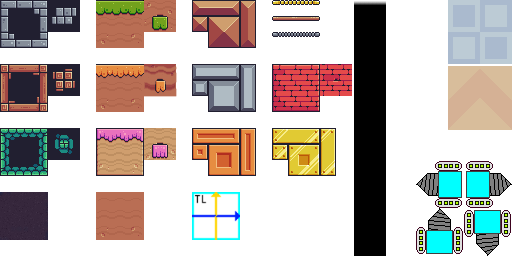
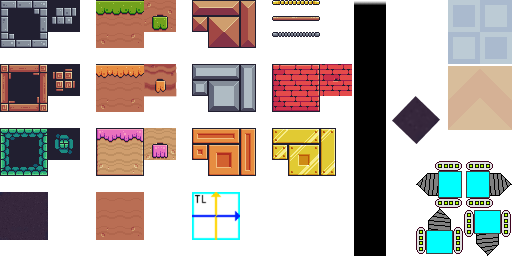
adjusted demos to new scenegraph

Changed region(s): [[0.75, 0.375, 0.875, 0.5625]]

diff --git a/Demos/SnakeGame/Logic/GameModel.cs b/Demos/SnakeGame/Logic/GameModel.cs
@@ -9,6 +9,7 @@ public class GameModel
     private const float BaseVelocityTilesPerSecond = 4f;
     private const float VelocityLevelIncreaseSecond = 0.3f;
 
+    private LinkedList<SnakeTile> snakeTiles = new();
 
     public GameModel()
     {
@@ -42,7 +43,7 @@ public class GameModel
         SnakeDirection = Direction.West;
     }
 
-    public IEnumerable<SnakeTile> SnakeTiles => Tiles;
+    public IEnumerable<SnakeTile> SnakeTiles => snakeTiles;
 
     public float Velocity => BaseVelocityTilesPerSecond + (Level * VelocityLevelIncreaseSecond) + (FoodEaten * VelocityLevelIncreaseSecond / 2f);
     public float MoveDurationSeconds => 1f / Velocity;
@@ -74,18 +75,18 @@ public class GameModel
 
     private void InitSnake()
     {
-        Tiles.Clear();
+        snakeTiles.Clear();
         var x = GridTilesX / 2;
         var y = GridTilesY / 2;
         var bodyTiles = Level + 1;
         x -= bodyTiles / 2;
-        Tiles.AddLast(new SnakeTile(x - 1, y, Direction.West, FrameType.Head));
+        snakeTiles.AddLast(new SnakeTile(x - 1, y, Direction.West, FrameType.Head));
         for (var i = 0; i < bodyTiles; i++)
         {
-            Tiles.AddLast(new SnakeTile(x + i, y, Direction.West, FrameType.Body));
+            snakeTiles.AddLast(new SnakeTile(x + i, y, Direction.West, FrameType.Body));
 
         }
-        Tiles.AddLast(new SnakeTile(x + bodyTiles, y, Direction.West, FrameType.Tail));
+        snakeTiles.AddLast(new SnakeTile(x + bodyTiles, y, Direction.West, FrameType.Tail));
     }
     private void InitObjects()
     {
@@ -116,7 +117,6 @@ public class GameModel
 
     #region Snake movement
     public Direction SnakeDirection { get; private set; } = Direction.West;
-    public LinkedList<SnakeTile> Tiles { get; private set; } = new LinkedList<SnakeTile>();
 
     /// <summary>
     /// Moves the snake one tile in the given direction.
@@ -125,7 +125,7 @@ public class GameModel
     /// <returns>true if the snake has moved, false if it was blocked</returns>
     public bool MoveSnake(Direction direction)
     {
-        var head = Tiles.First!;
+        var head = snakeTiles.First!;
         SnakeDirection = direction;
 
         //  create the head node on new position and check for food collision
@@ -161,7 +161,7 @@ public class GameModel
                 if (node.Previous == head) break;
 
                 SnakeTile newTile = new(previousCopy.X, previousCopy.Y, previousCopy.Direction, FrameType.Body);
-                Tiles.AddAfter(node, newTile);
+                snakeTiles.AddAfter(node, newTile);
             }
 
             node = node.Next;
@@ -169,7 +169,7 @@ public class GameModel
         while (node != null);
 
         //  make sure tail has the direction of previous tile
-        Tiles.Last!.Value.Direction = Tiles.Last.Previous!.Value.Direction;
+        snakeTiles.Last!.Value.Direction = snakeTiles.Last.Previous!.Value.Direction;
 
 
         //  check for collisions       
@@ -184,11 +184,11 @@ public class GameModel
     /// <returns>true if snake has collided</returns>
     private bool HasHeadCollided()
     {
-        var headTile = Tiles.First!.Value;
+        var headTile = snakeTiles.First!.Value;
         var isCollission = Grid[headTile.X, headTile.Y] == TileType.Block || Grid[headTile.X, headTile.Y] == TileType.Bomb;
         if (!isCollission)
         {
-            foreach (var tile in Tiles.Skip(1))
+            foreach (var tile in snakeTiles.Skip(1))
             {
                 if (headTile.X == tile.X && headTile.Y == tile.Y)
                 {

diff --git a/Demos/Deeper/Entities/Vehicle.cs b/Demos/Deeper/Entities/Vehicle.cs
@@ -1,15 +1,16 @@
-
+namespace Deeper.Entities;
+
 using RaylibEngine.Components;
 using RaylibEngine.Core;
 using System.Numerics;
 
-namespace Deeper.Entities;
 internal class Vehicle : Sprite, IUpdateable
 {
     const float Speed = Map.TileSize;
 
     private readonly Dictionary<Direction, Rectangle> frames = new();
     private readonly Map map;
+    private readonly Sprite diggingBackground;
 
     private Direction direction;
     private readonly TilePosition currentTilePosition = new(0, 0);
@@ -27,28 +28,36 @@ internal class Vehicle : Sprite, IUpdateable
         frames[Direction.North] = new(416, 208, Map.TileSize, Map.TileSize);
         frames[Direction.South] = new(464, 208, Map.TileSize, Map.TileSize);
         Frame = frames[Direction.East];
+        Name = "Vehicle";
+
+        diggingBackground = new Sprite(texture, Vector2.Zero, Map.TileSize + 6, Map.TileSize + 6)
+        {
+            Name = "DiggingBack",
+            Frame = new(392, 96, Map.TileSize, Map.TileSize),
+            Anchor = new(0.5f, 0f),
+            Visible = false,
+        };
+        AddChild(diggingBackground);
     }
 
     public void Update(float ellapsedSeconds)
     {
         if (direction == Direction.None)
         {
-            direction = GetDirectionInput();
-
-            //	if changing from no movement to movement update next position and sprite frame
-            if (direction != Direction.None)
+            //	if we here is a movement request set destination and sprite frame
+            var dir = GetDirectionInput();
+            if (dir != Direction.None)
             {
-                destinationTilePosition = GetNextTilePosition(currentTilePosition, direction);
-                if (!map.IsTileWalkable(destinationTilePosition))
+                destinationTilePosition = GetNextTilePosition(currentTilePosition, dir);
+                if (map.IsTileWalkable(destinationTilePosition))
                 {
-                    direction = Direction.None;
-                }
-                else
-                {
-                    Frame = frames[direction];
+                    Frame = frames[dir];
                     destinationPosition = new Vector2(destinationTilePosition.X, destinationTilePosition.Y) * Map.TileSize;
                     transitionPosition = Position;
-                }
+                    direction = dir;
+                    var tileType = map[destinationTilePosition].TileType;
+                    diggingBackground.Visible = tileType != TileType.Empty && tileType != TileType.Blocker && tileType != TileType.Ground;
+                }                
             }
         }
 
@@ -67,6 +76,7 @@ internal class Vehicle : Sprite, IUpdateable
                 currentTilePosition.Y = (int)(destinationPosition.Y / Map.TileSize);
                 Position = destinationPosition;
                 map.Dig(destinationTilePosition);
+                diggingBackground.Visible = false;
             }
         }
     }

diff --git a/Demos/Deeper/Entities/DeeperScene.cs b/Demos/Deeper/Entities/DeeperScene.cs
@@ -1,9 +1,10 @@
 
+namespace Deeper.Entities;
+
 using RaylibEngine.Components;
 using RaylibEngine.SceneManagement;
 using System.Numerics;
 
-namespace Deeper.Entities;
 internal class DeeperScene : Scene
 {
     private readonly Rectangle FrameSpotMask = new(354, 0, 32, 256);
@@ -26,7 +27,6 @@ internal class DeeperScene : Scene
         };
 
         var atlas = LoadTexture("./Assets/Atlas.png");
-        //GenTextureMipmaps(&atlas);
         SetTextureWrap(atlas, TextureWrap.TEXTURE_WRAP_CLAMP);
         SetTextureFilter(atlas, TextureFilter.TEXTURE_FILTER_BILINEAR);
 
@@ -38,7 +38,7 @@ internal class DeeperScene : Scene
             Height = ScreenHeight / 2 + Map.TileSize * 2,
             Position = Vector2.Zero
         };
-        AddChild(skyBackground);
+        //AddChild(skyBackground);
 
         //	ground map
         map = new Map(atlas);
@@ -90,7 +90,7 @@ internal class DeeperScene : Scene
         //if (vehicle.Position.Y > Map.TileSize * (Map.Height - 1))
         //	vehicle.Position = new(vehicle.Position.X, Map.TileSize * (Map.Height - 1));
 
-        camera.target = vehicle.Position;
+        camera.target = new(vehicle.Position.X, vehicle.Position.Y);
         camera.target.Y -= Map.TileSize / 2;
 
         skyBackground.Position = new(vehicle.Position.X - halfOffset.X, -halfOffset.Y - Map.TileSize);

diff --git a/Demos/SnakeGame/Logic/Ground.cs b/Demos/SnakeGame/Logic/Ground.cs
@@ -1,20 +1,19 @@
 
 using RaylibEngine.Components;
 using RaylibEngine.Core;
+using System.Numerics;
 
 namespace RaySnake.Logic;
 internal class Ground : Container, IDrawable
 {
-    private readonly int x;
-    private readonly int y;
+   
     private readonly int width;
     private readonly int height;
     private readonly Color color;
 
     public Ground(int x, int y, int width, int height, Color color)
     {
-        this.x = x;
-        this.y = y;
+        Position = new(x, y, 0);
         this.width = width;
         this.height = height;
         this.color = color;
@@ -23,8 +22,14 @@ internal class Ground : Container, IDrawable
 
     public bool Visible { get; set; }
 
+    public float Angle => 0;
+   
+    public Vector3 Position { get; }
+
+    public bool IsDirty => false;
+
     public void Draw()
     {
-        DrawRectangle(x, y, width, height, color);
+        DrawRectangle((int)Position.X, (int)Position.Y, width, height, color);
     }
 }

diff --git a/Demos/PolygonCollider/Physics2DUtils/Box2DHelper.cs b/Demos/PolygonCollider/Physics2DUtils/Box2DHelper.cs
@@ -5,6 +5,7 @@ using Box2D.NetStandard.Collision.Shapes;
 using Box2D.NetStandard.Dynamics.Bodies;
 using Box2D.NetStandard.Dynamics.Fixtures;
 using Box2D.NetStandard.Dynamics.World;
+using Microsoft.VisualBasic;
 using RaylibEngine;
 using RaylibEngine.Components;
 using System.Numerics;
@@ -41,10 +42,11 @@ public static class Box2DHelper
 
     public static Body CreateBody(this World world, Sprite sprite, BodyType bodyType, IEnumerable<FixtureDef> fixtureDefs, bool isBullet, float angularVelocity, Vector2 scale, object? userData)
     {
+        var pos = new Vector2(sprite.Position.X, sprite.Position.Y) * scale;
         BodyDef bd = new()
         {
             type = bodyType,
-            position = sprite.Position * scale,
+            position = pos,
             linearDamping = 0,
             allowSleep = true,
             awake = true,

diff --git a/Demos/SpriteTest/SpriteScene.cs b/Demos/SpriteTest/SpriteScene.cs
@@ -99,10 +99,10 @@ internal class SpriteScene : Scene
         }
 
         //	update sprite position
-        sprite.Position += IsKeyDown(KeyboardKey.KEY_RIGHT) ? new(1f, 0f) :
-                            IsKeyDown(KeyboardKey.KEY_LEFT) ? new(-1f, 0f) :
-                            IsKeyDown(KeyboardKey.KEY_UP) ? new(0f, -1f) :
-                            IsKeyDown(KeyboardKey.KEY_DOWN) ? new(0f, 1f) :
+        sprite.Position += IsKeyDown(KeyboardKey.KEY_RIGHT) ? new(1f, 0) :
+                            IsKeyDown(KeyboardKey.KEY_LEFT) ? new(-1f, 0) :
+                            IsKeyDown(KeyboardKey.KEY_UP) ? new(0, -1f) :
+                            IsKeyDown(KeyboardKey.KEY_DOWN) ? new(0, 1f) :
                             Vector2.Zero;
 
         //	update mouse hover status 

diff --git a/Demos/Deeper/Entities/VehicleSpotMask.cs b/Demos/Deeper/Entities/VehicleSpotMask.cs
@@ -1,8 +1,9 @@
 
+namespace Deeper.Entities;
+
 using RaylibEngine.Components;
 using System.Numerics;
 
-namespace Deeper.Entities;
 internal class VehicleSpotMask : Sprite
 {
     public const string NodeName = "SpotMask";
@@ -24,7 +25,6 @@ internal class VehicleSpotMask : Sprite
 
         SetShaderValue(shdrSpot, innerUniformLocation, innerRadius, ShaderUniformDataType.SHADER_UNIFORM_FLOAT);
         SetShaderValue(shdrSpot, radiusUniformLocation, outerRadius, ShaderUniformDataType.SHADER_UNIFORM_FLOAT);
-        //SetShaderValue(shdrSpot, screenHalfUniformLocation, new Vector2(GetScreenWidth() / 2, GetScreenHeight() / 2), ShaderUniformDataType.SHADER_UNIFORM_VEC2);
     }
 
     public override void Draw()

diff --git a/Demos/Box2DTest/Physics2DUtils/Box2DHelper.cs b/Demos/Box2DTest/Physics2DUtils/Box2DHelper.cs
@@ -40,10 +40,11 @@ public static class Box2DHelper
 
     public static Body CreateBody(this World world, Sprite sprite, BodyType bodyType, IEnumerable<FixtureDef> fixtureDefs, bool isBullet, float angularVelocity, Vector2 scale, object? userData)
     {
+        var pos = new Vector2(sprite.Position.X, sprite.Position.Y) * scale;
         BodyDef bd = new()
         {
             type = bodyType,
-            position = sprite.Position * scale,
+            position = pos,
             linearDamping = 0,
             allowSleep = true,
             awake = true,

diff --git a/Demos/PolygonCollider/ColliderScene.cs b/Demos/PolygonCollider/ColliderScene.cs
@@ -152,7 +152,8 @@ internal class ColliderScene : Scene
             };
             if (spr != null)
             {
-                spr.Position = body.Position * world2ViewScale;
+                var pos = body.Position * world2ViewScale;
+                spr.Position = new Vector2(pos.X, pos.Y);
                 spr.Angle = (float)(body.GetAngle() * Helpers.RADIAN_2_DEGREE);
 
                 if (spr == rotor)

diff --git a/Demos/Box2DTest/PhysicsScene.cs b/Demos/Box2DTest/PhysicsScene.cs
@@ -139,7 +139,8 @@ internal class PhysicsScene : Scene
             };
             if (spr != null)
             {
-                spr.Position = body.Position * world2ViewScale;
+                var pos = body.Position * world2ViewScale;
+                spr.Position = new Vector2(pos.X, pos.Y);
                 spr.Angle = (float)(body.GetAngle() * Helpers.RADIAN_2_DEGREE);
 
                 if (spr == rotor)

diff --git a/Demos/SnakeGame/Scenes/GameScene.cs b/Demos/SnakeGame/Scenes/GameScene.cs
@@ -90,8 +90,8 @@ internal class GameScene : Scene
     #region sync visuals with model
     private void CreateObjects()
     {
-        spriteObjects.Clear();
         RemoveAllChildren();
+        spriteObjects.Clear();
         AddChild(new Ground(0, Margin, GetScreenWidth(), GetScreenHeight(), DARKGREEN));
 
         for (var j = 0; j < GameModel.GridTilesY; j++)

diff --git a/Demos/SnakeGame/Program.cs b/Demos/SnakeGame/Program.cs
@@ -20,7 +20,7 @@ public static class Program
         SetWindowPosition(0, 0);
         SetTargetFPS(120);
 
-        MenuScene startScene = new(Title);
+        var startScene = new MenuScene(Title);
         SceneManager.ActivateScene(startScene);
 
         //  main loop
